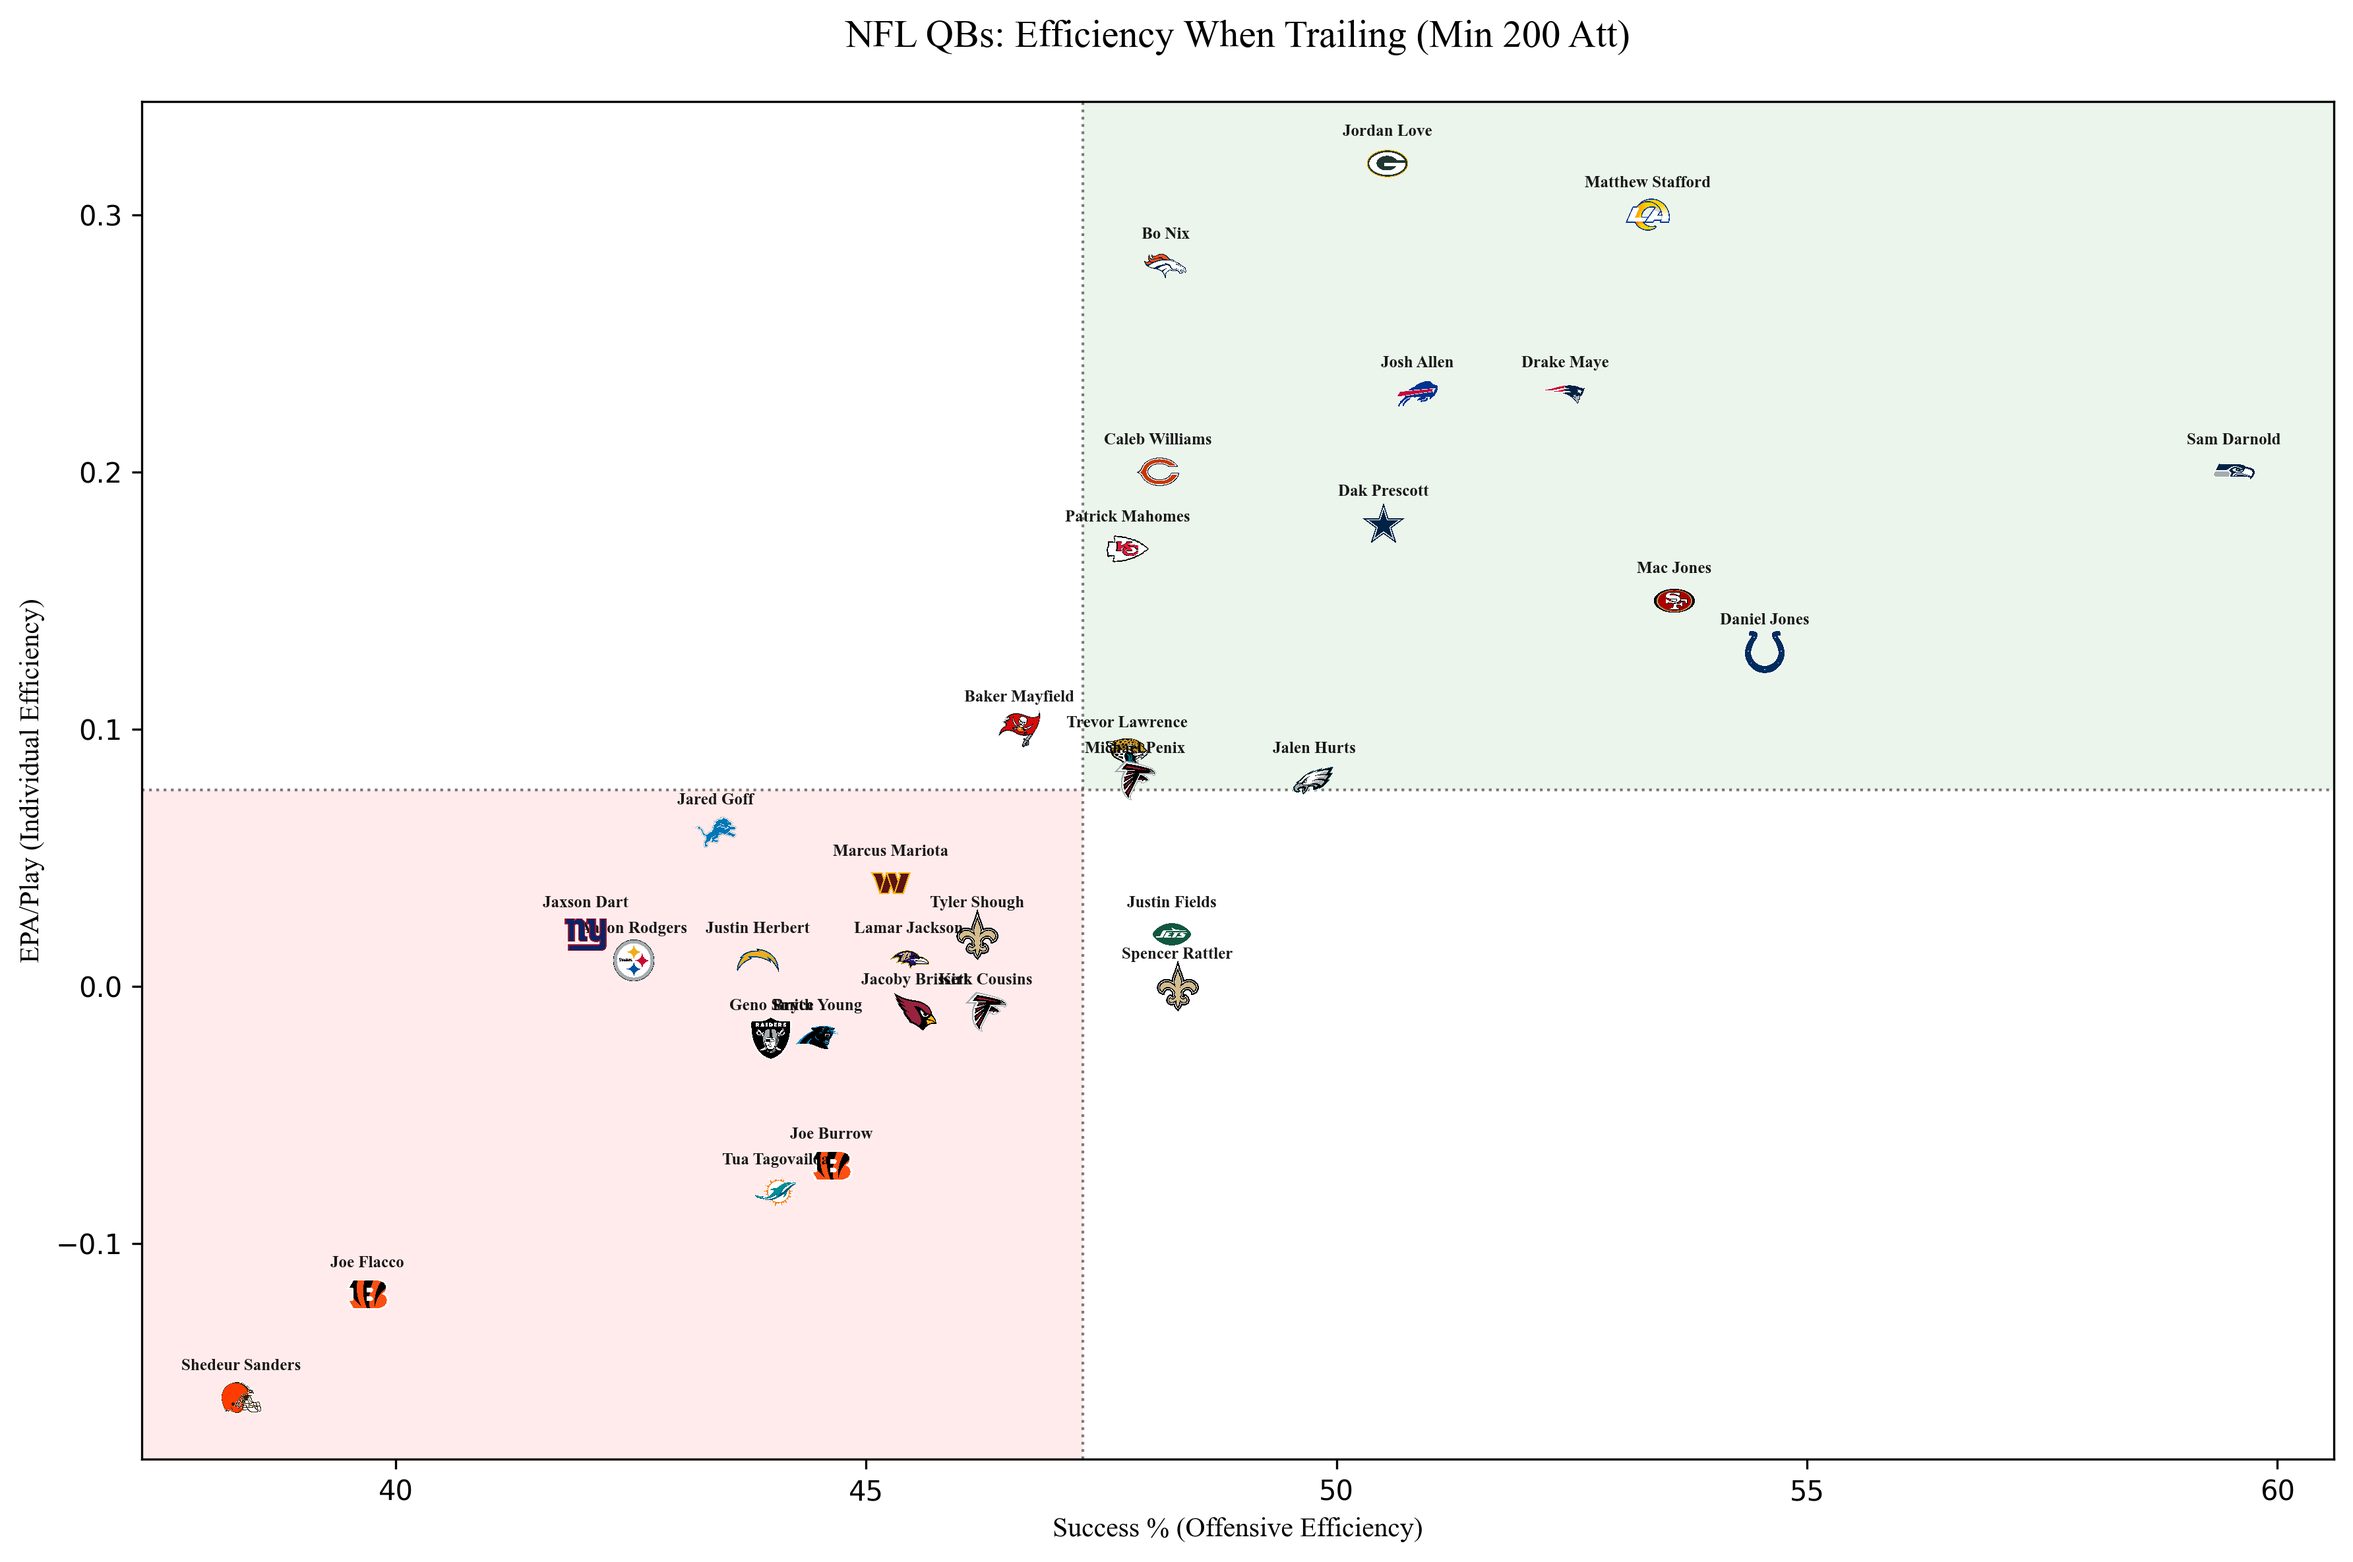
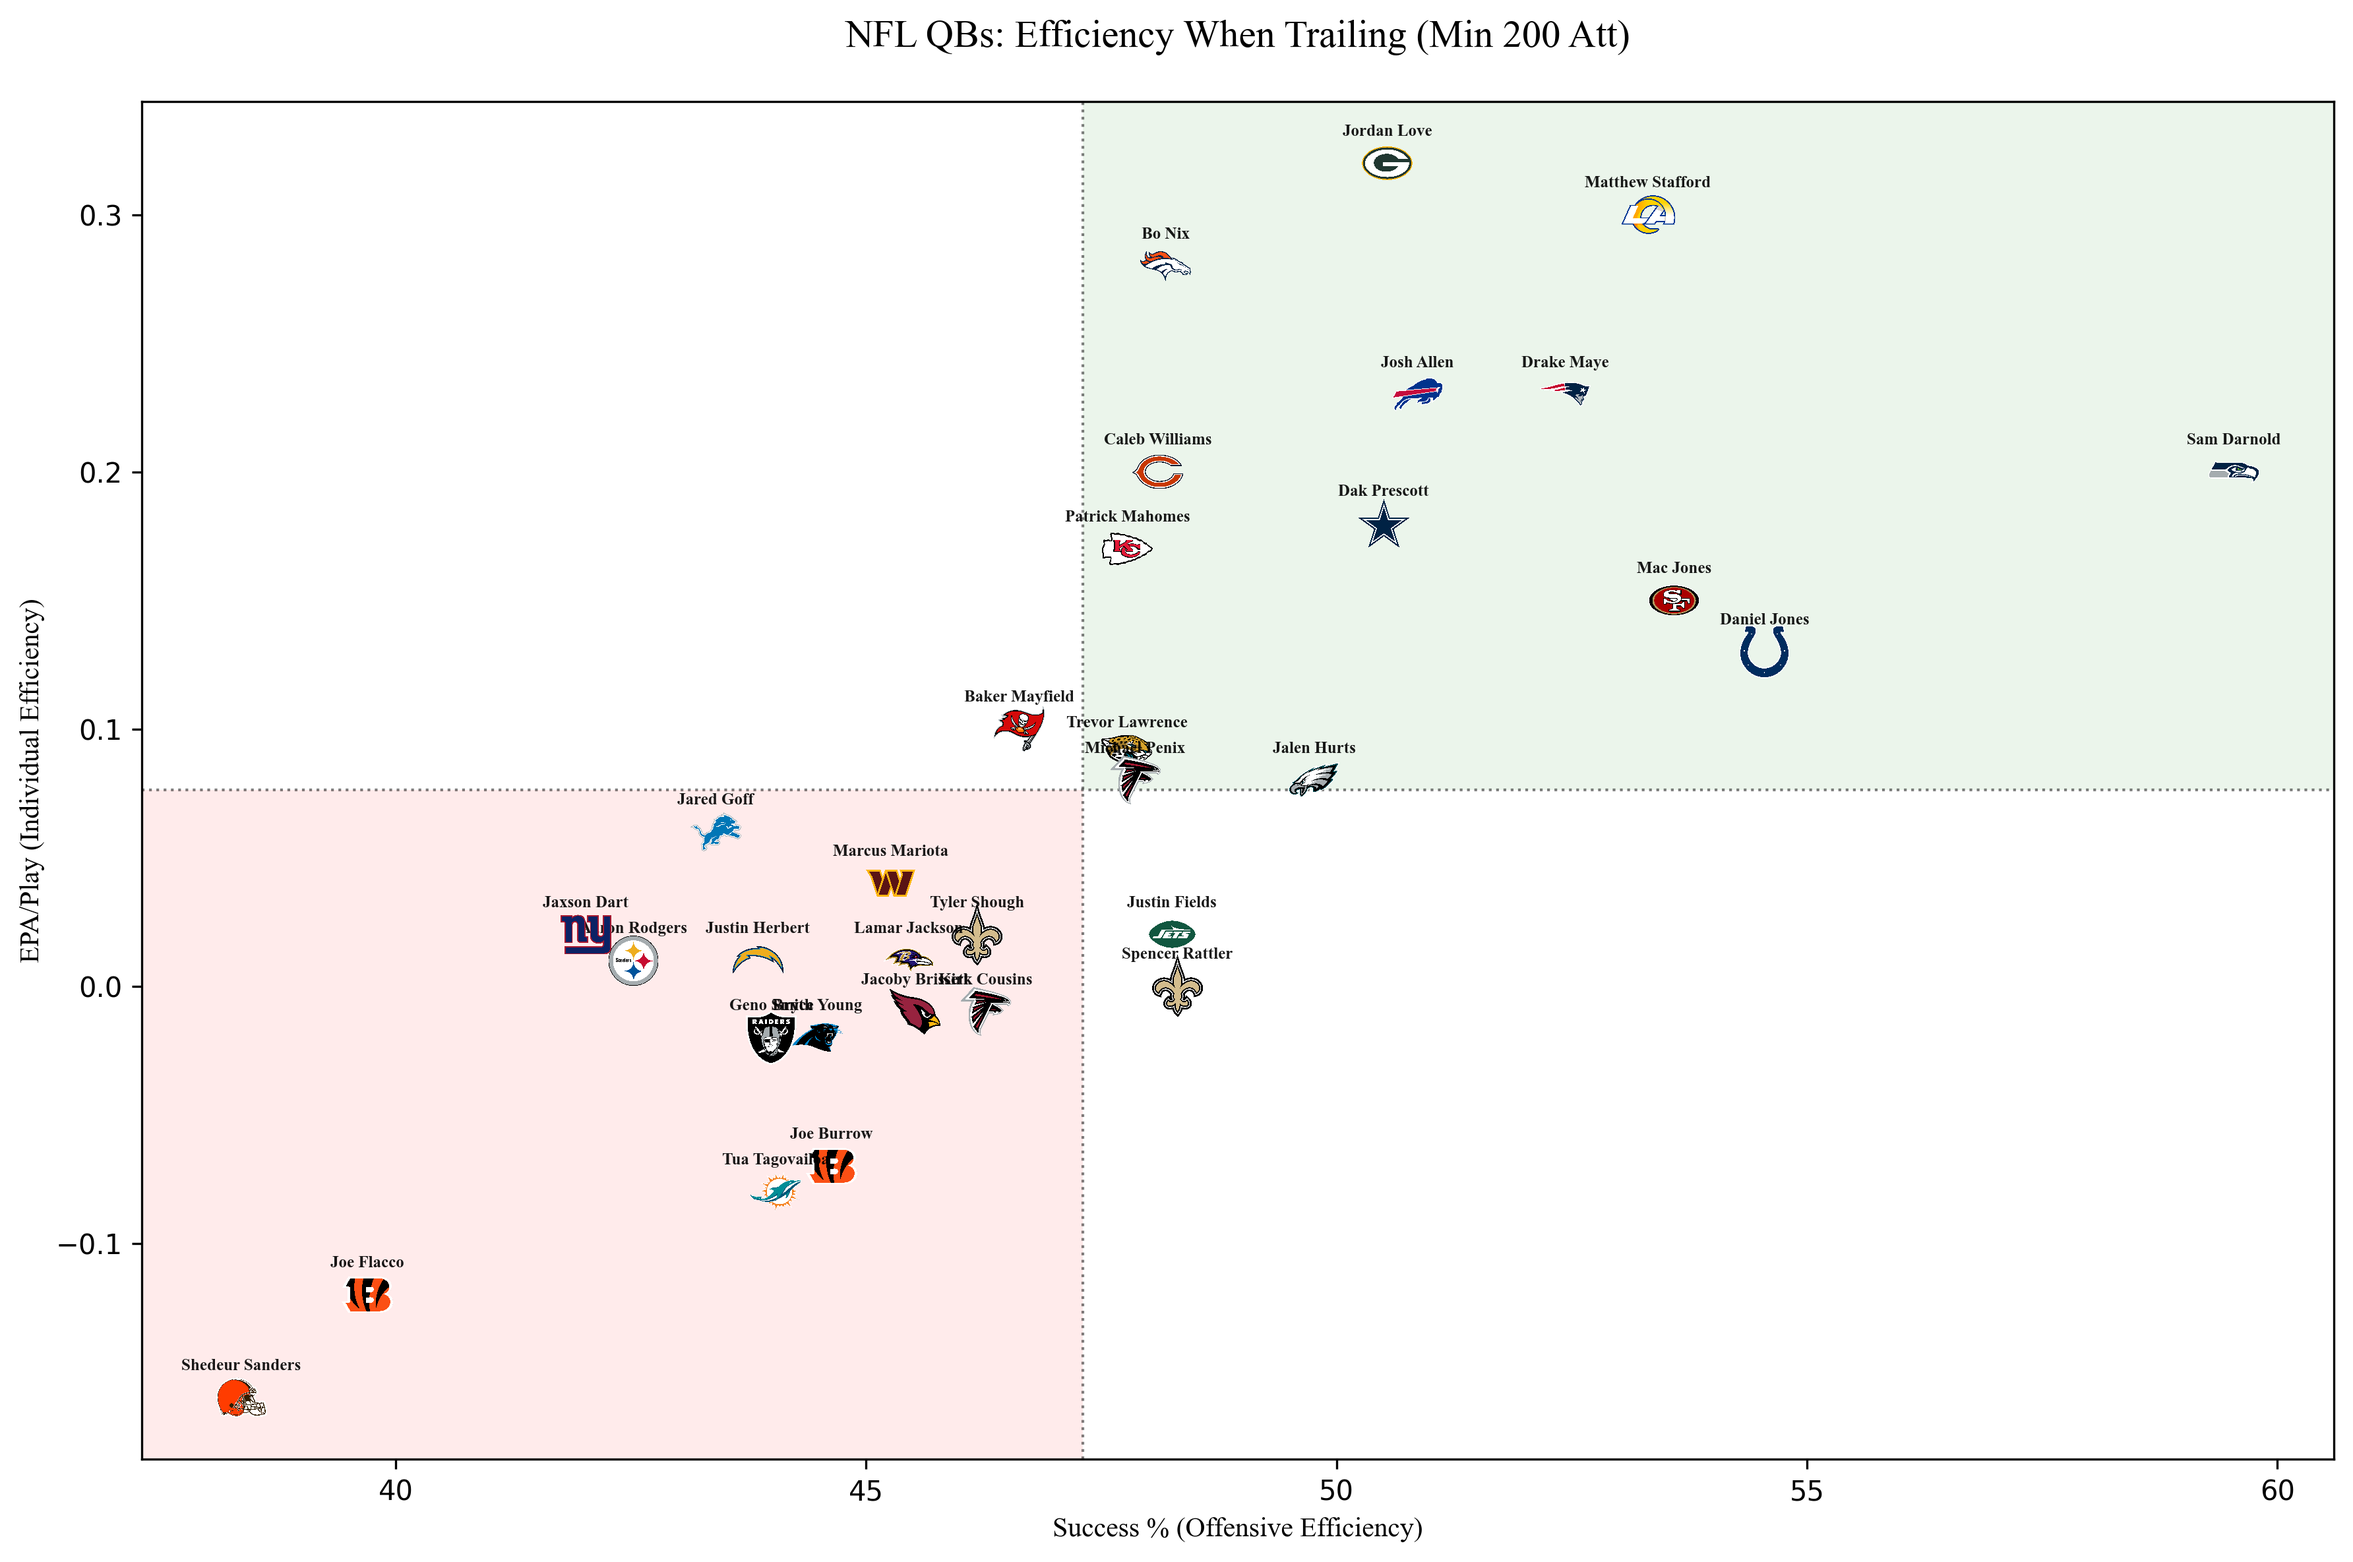
finished neg and blitz

diff --git a/notebooks/blitz_stats.py b/notebooks/blitz_stats.py
@@ -10,7 +10,7 @@ from PIL import Image
 from utils import *
 
 
-def cleaned_data_negative():
+def cleaned_data_blitz():
     p = Path(__file__).resolve()
     base = None
     for parent in p.parents:
@@ -24,8 +24,7 @@ def cleaned_data_negative():
     try:
       
         df_passing = pd.read_csv(raw / "passing_data.csv")
-        df_adv_passing = pd.read_csv(raw / "adv_passing.csv")
-        qb_stats_sumer = pd.read_csv(raw / "qb_stats_sumer.csv")
+        df_blitz_data = pd.read_csv(raw / "qb_blitz_data.csv")
 
     except FileNotFoundError as e:
         print("Data file not found:", e)
@@ -47,25 +46,24 @@ def cleaned_data_negative():
     df_passing['Att'] = df_passing['Att'].str.replace(r'*', '', regex=False)
     df_passing['Att'] = pd.to_numeric(df_passing['Att'], errors='coerce').fillna(0).astype(int)
 
-    qb_stats_sumer = qb_stats_sumer.rename(columns = {'Player Name': 'Player'})
-    qb_stats_sumer['Player'] = qb_stats_sumer['Player'].str.replace(r'^\d+\.\s*', '', regex=True).str.strip()
-    qb_stats_sumer = qb_stats_sumer.rename({'Cameron Ward': 'Cam Ward'})
 
-    df_adv_passing= promote_first_row_to_header(df_adv_passing)
-    df_adv_passing = df_adv_passing[df_adv_passing['Team'] != '2TM']
-    df_final_negative = df_passing[['Player', 'Team', 'Att']].merge(df_adv_passing[['Player', 'Bad%']], on='Player', how='left')
-    df_final_negative = qb_stats_sumer[['Player', 'Time To Throw']].merge(df_final_negative, on='Player', how='left')
-    df_final_negative = df_final_negative[df_final_negative['Att'] >= 200]
-    df_final_negative['Time To Throw'] = pd.to_numeric(df_final_negative['Time To Throw'], errors='coerce').astype(float)
-    df_final_negative['Bad%'] = pd.to_numeric(df_final_negative['Bad%'], errors='coerce').astype(float)
-    df_final_negative = df_final_negative.drop_duplicates(subset=['Player'])
-    print(df_final_negative)
 
-    return df_final_negative
+    df_blitz_data = df_blitz_data.rename(columns = {'Player Name': 'Player'})
+    df_blitz_data['Player'] = df_blitz_data['Player'].str.replace(r'^\d+\.\s*', '', regex=True).str.strip()
+    df_blitz_data = df_blitz_data[['Player', 'Sack %', 'ADoT']]
+    
+    df_final_blitz = df_blitz_data.merge(df_passing[['Player', 'Team', 'Att']], on='Player', how='left')
+    df_final_blitz['Sack %'] = df_final_blitz['Sack %'].str.replace(r'%', '', regex=False)
+    df_final_blitz['Sack %'] = pd.to_numeric(df_final_blitz['Sack %'], errors='coerce').astype(float)
+    df_final_blitz['ADoT'] = pd.to_numeric(df_final_blitz['ADoT'], errors='coerce').astype(float)
+    df_final_blitz = df_final_blitz[df_final_blitz['Att'] >= 200]
+    print(df_final_blitz)
+    
+    return df_final_blitz
 
-def create_scatter_negative(df):
-    x = df['Time To Throw']
-    y = df['Bad%']
+def create_scatter_blitz(df):
+    x = df['ADoT']
+    y = df['Sack %']
     
     x_mean = x.mean()
     y_mean = y.mean()
@@ -79,8 +77,8 @@ def create_scatter_negative(df):
     logo_path = Path(__file__).resolve().parent.parent / "data" / "raw" / "nfl logos"
     
     for idx, row in df.iterrows():
-        current_x = row['Time To Throw']
-        current_y = row['Bad%']
+        current_x = row['ADoT']
+        current_y = row['Sack %']
         
         logo_file = logo_path / f"{row['Team']}.png"
         
@@ -98,29 +96,29 @@ def create_scatter_negative(df):
                        fontsize=6, fontfamily='Times New Roman', fontweight='semibold', alpha=0.9,
                        xytext=(0, 10), textcoords='offset points', 
                        ha='center', zorder=z_val + 1)
-
-    ax.set_xlabel('Time To Throw (Seconds)', fontfamily='Times New Roman')
-    ax.set_ylabel('Bad%', fontfamily='Times New Roman')
-    ax.set_title('NFL QBs: Standard (Min 200 Att)', fontsize=14, pad=20, fontfamily='Times New Roman')
-
+    
+    ax.set_xlabel('ADoT (Average Depth of Target)', fontfamily='Times New Roman')
+    ax.set_ylabel('Sack %', fontfamily='Times New Roman')
+    ax.set_title('NFL QBs: When Blitzed (Min 200 Att)', fontsize=14, pad=20, fontfamily='Times New Roman')
+    
     ax.axhline(y=y_mean, color='black', linestyle=':', linewidth=1, alpha=0.5, zorder=1)
     ax.axvline(x=x_mean, color='black', linestyle=':', linewidth=1, alpha=0.5, zorder=1)
     
     left, right = ax.get_xlim()
     bottom, top = ax.get_ylim()
 
-    bad_rect = patches.Rectangle((x_mean, y_mean), right-x_mean, top - y_mean, 
+    bad_rect = patches.Rectangle((left, y_mean), x_mean - left, top - y_mean, 
                                linewidth=0, facecolor='red', alpha=0.08, zorder=0)
     ax.add_patch(bad_rect)
 
-    good_rect = patches.Rectangle((left, bottom),   x_mean - left, y_mean - bottom, 
+    good_rect = patches.Rectangle((x_mean, bottom), right - x_mean, y_mean - bottom, 
                                linewidth=0, facecolor='green', alpha=0.08, zorder=0)
     ax.add_patch(good_rect)
 
     plt.tight_layout()
-    plt.savefig("caleb_negative_stats.png", dpi=300, bbox_inches='tight')
+    plt.savefig("caleb_blitz_stats.png", dpi=300, bbox_inches='tight')
     plt.show()
 
 if __name__ == "__main__":
-    df = cleaned_data_negative()
-    create_scatter_negative(df)
+    df = cleaned_data_blitz()
+    create_scatter_blitz(df)

diff --git a/notebooks/positive_stats.py b/notebooks/positive_stats.py
@@ -9,14 +9,6 @@ import matplotlib.patches as patches
 from PIL import Image
 from utils import *
 
-def clean_nfl_string(text, sep='-', keep_left=True):
-    if not isinstance(text, str):
-        return None
-    parts = text.split(sep)
-    if len(parts) < 2:
-        return text
-    result = parts[0] if keep_left else parts[1]
-    return result.strip()
 
 def cleaned_data():
     p = Path(__file__).resolve()
@@ -117,7 +109,7 @@ def create_qb_scatter(df):
         
         if logo_file.exists():
             img = Image.open(logo_file).convert("RGBA")
-            imagebox = OffsetImage(img, zoom=0.007) 
+            imagebox = OffsetImage(img, zoom=0.0085) 
             ab = AnnotationBbox(imagebox, (current_x, current_y), 
                                frameon=False, zorder=z_val)
             ax.add_artist(ab)

diff --git a/notebooks/utils.py b/notebooks/utils.py
@@ -15,3 +15,13 @@ def promote_first_row_to_header(df):
             df.columns = first_row
             df = df.reset_index(drop=True)
     return df
+
+
+def clean_nfl_string(text, sep='-', keep_left=True):
+    if not isinstance(text, str):
+        return None
+    parts = text.split(sep)
+    if len(parts) < 2:
+        return text
+    result = parts[0] if keep_left else parts[1]
+    return result.strip()
